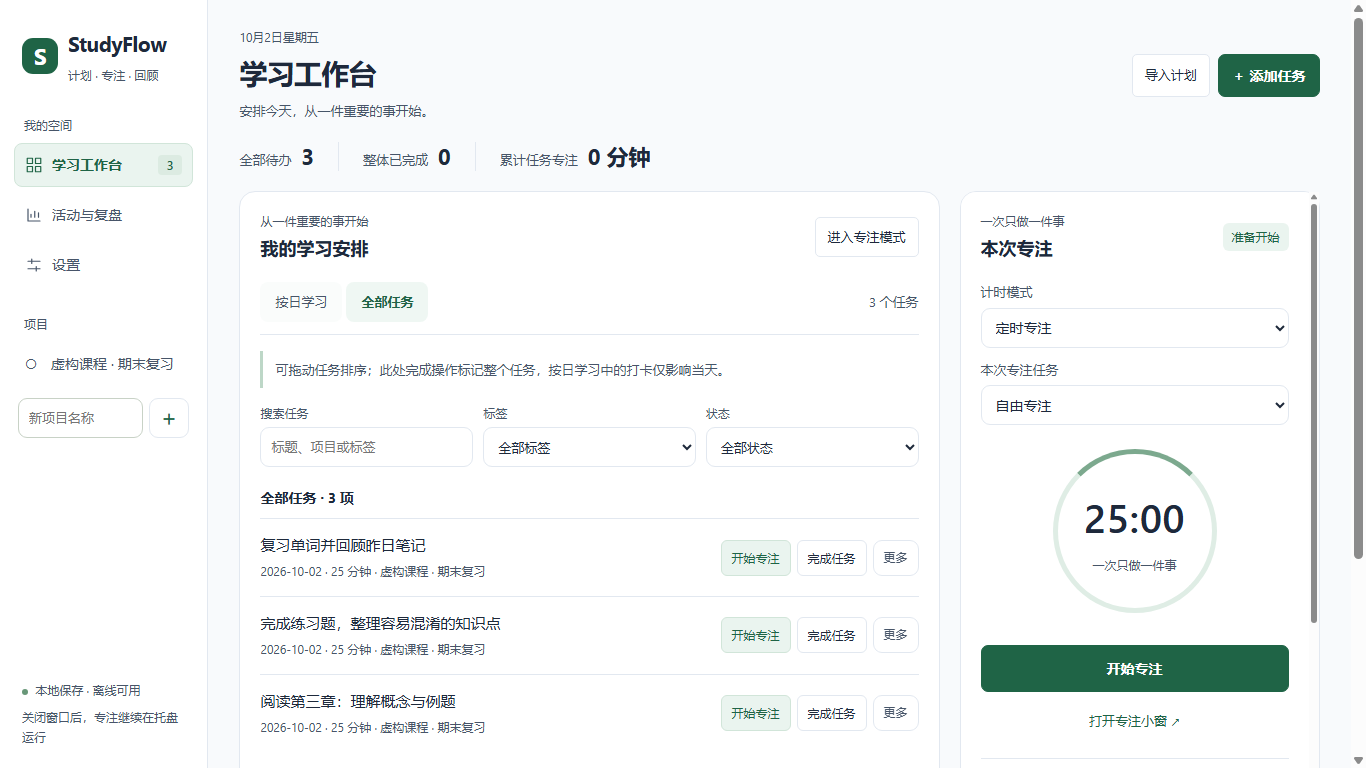
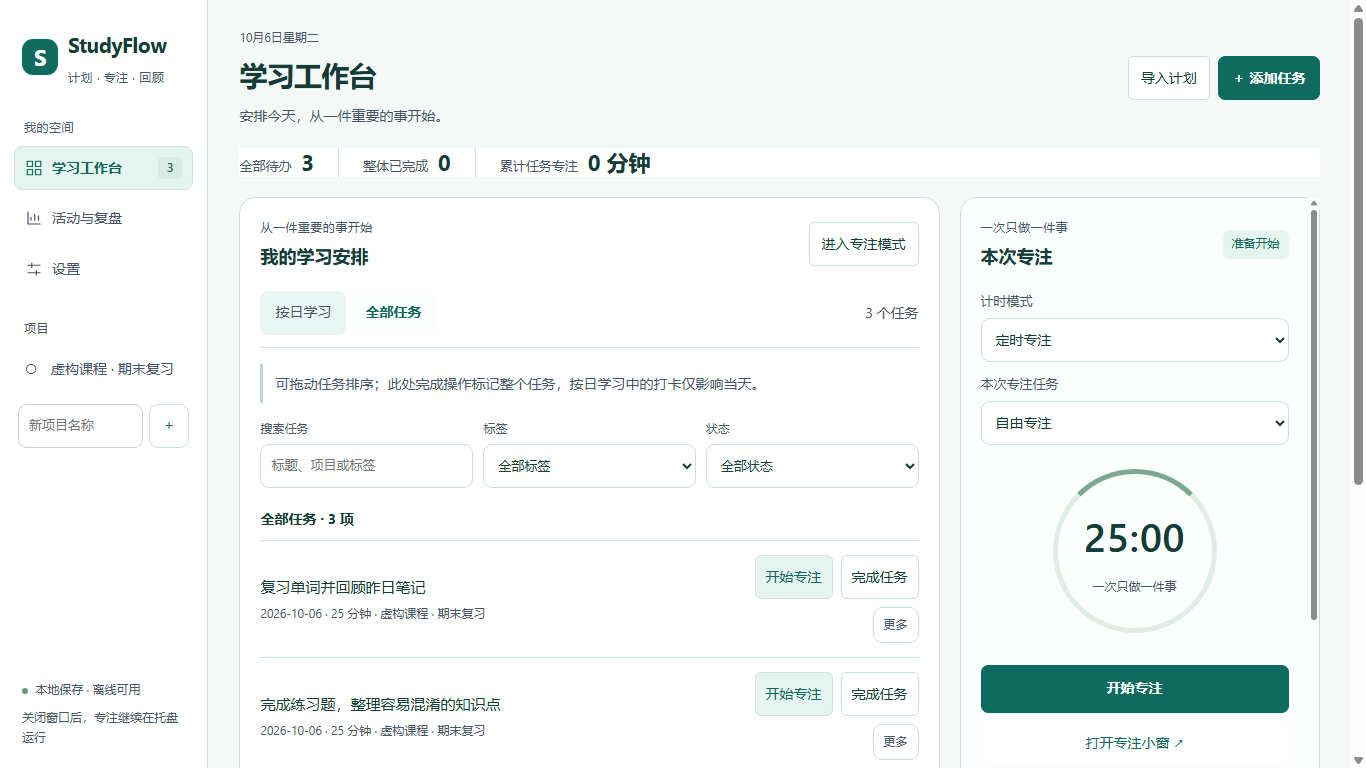
Improve interface readability, responsive layouts and keyboard access

diff --git a/desktop/workspace.css b/desktop/workspace.css
@@ -316,3 +316,78 @@ body.study-view .workspace { grid-template-columns: minmax(0, 1fr) clamp(320px, 
   .settings-save { bottom: 8px; }
 }
 @media (prefers-reduced-motion: reduce) { button { transition: none; } }
+/* Comfortable planning density, including small windows and large text. */
+:root {
+  --canvas: #f4f8f7;
+  --ink: #153c36;
+  --muted: #475569;
+  --brand: #0f6b60;
+  --brand-hover: #0c574e;
+  --brand-soft: #e6f4f0;
+  --border: #cbded8;
+  font-size: 16px;
+  line-height: 1.6;
+}
+.skip-link {
+  position: fixed;
+  left: 16px;
+  top: -100px;
+  z-index: 100;
+  padding: 12px 18px;
+  border-radius: 8px;
+  background: #fff;
+  color: var(--brand);
+  font-weight: 600;
+}
+.skip-link:focus { top: 16px; }
+.brand small, .section-label, .section-kicker { font-size: 12px; letter-spacing: .04em; }
+.nav-item, .project-link { min-height: 44px; font-size: 14px; }
+main > header p, .agenda-summary, .task-list p, .task-meta, .task-notes, .muted,
+.hint, .import-panel .hint, .json-guidance, .agenda-empty, .empty p { font-size: 14px; line-height: 1.7; }
+.task-list strong, .task-heading { font-size: 16px; line-height: 1.5; overflow-wrap: anywhere; }
+.overview small, .calendar-jump, .calendar-weekdays { font-size: 13px; color: var(--muted); }
+.overview { border-color: var(--border); background: #fff; }
+.overview > div { min-width: 0; }
+.calendar-day { min-height: 52px; line-height: 1.4; }
+.calendar-day small { font-size: 12px; }
+.calendar-day.today { outline: 2px solid var(--brand); outline-offset: -2px; }
+.calendar-day.selected { background: var(--brand); }
+.task-row { align-items: flex-start; padding-block: 18px; }
+.task-actions { gap: 8px; }
+.task-actions button, .agenda-tabs button, .secondary, .primary, .calendar-toolbar button,
+.project-form button, .panel-title button, .toolbar button { min-height: 44px; font-size: 14px; }
+.task-actions button { white-space: normal; }
+input:not([type=checkbox]):not([type=range]), select { min-height: 44px; }
+.focus-panel, .tasks-panel, .settings-card, .review-card { border-color: var(--border); }
+.focus-panel { background: #fafffd; }
+.timer-label, .timer-detail, .focus-panel .hint { color: var(--muted); font-size: 13px; }
+.task-entry > summary { min-height: 44px; padding-block: 10px; font-size: 15px; }
+.event-sound-row strong { font-size: 14px; }
+:is(button, a, input, select, textarea, summary):focus-visible { outline: 3px solid var(--brand); outline-offset: 3px; }
+@media (max-width: 850px) {
+  .panel-title, main > header, .calendar-toolbar, .calendar-jump { flex-wrap: wrap; gap: 12px; }
+  .task-actions { flex-direction: row; flex-wrap: wrap; }
+}
+@media (max-width: 640px) {
+  .brand small { font-size: 12px; }
+  .nav-item { min-height: 44px; font-size: 14px; padding: 10px; }
+  .sidebar { min-height: auto; }
+  main { padding: 22px 16px; }
+  .tasks-panel, .focus-panel, .settings-card, .review-card { padding: 16px; }
+  .workspace { grid-template-columns: minmax(0, 1fr); }
+  .focus-panel { display: block; }
+  .overview { flex-wrap: wrap; gap: 16px; }
+  .task-row { flex-wrap: wrap; gap: 12px; }
+  .task-actions { width: 100%; justify-content: flex-end; padding-top: 0; }
+  .task-actions button { flex: 1 1 auto; }
+  .agenda-tabs { flex-wrap: wrap; gap: 8px; }
+  .calendar-grid { gap: 2px; }
+  .calendar-day { min-width: 0; min-height: 48px; padding: 6px 2px; font-size: 14px; }
+  .calendar-day small { font-size: 11px; }
+  input:not([type=checkbox]):not([type=range]), select, textarea { font-size: 16px; }
+  .project-form input { min-width: 0; }
+  .import-panel .hint { font-size: 13px; }
+}
+@media (prefers-reduced-motion: reduce) {
+  *, *::before, *::after { transition: none !important; animation: none !important; scroll-behavior: auto !important; }
+}

diff --git a/desktop/index.html b/desktop/index.html
@@ -6,6 +6,7 @@
   <title>StudyFlow</title><link rel="stylesheet" href="style.css"><link rel="stylesheet" href="workspace.css">
 </head>
 <body>
+  <a class="skip-link" href="#main-content">跳到学习工作台</a>
   <aside class="sidebar">
     <div class="brand"><span class="brand-mark">S</span><div>StudyFlow<small>计划 · 专注 · 回顾</small></div></div>
     <div class="section-label">我的空间</div>
@@ -19,7 +20,7 @@
     <form id="project-form" class="project-form"><label class="sr-only" for="project-name">新项目名称</label><input id="project-name" maxlength="80" placeholder="新项目名称" required><button title="创建项目" aria-label="创建项目">＋</button></form>
     <div class="sidebar-footer"><span class="status-dot"></span> 本地保存 · 离线可用<small>关闭窗口后，专注继续在托盘运行</small></div>
   </aside>
-  <main>
+  <main id="main-content" tabindex="-1">
     <header><div><div class="eyebrow" id="today">把今天过得更专注</div><h1 id="view-title">学习工作台</h1><p class="muted" id="view-description">安排今天，从一件重要的事开始。</p></div><div class="header-actions"><button id="quick-import" class="secondary" type="button">导入计划</button><button id="quick-add" class="primary" type="button">＋ 添加任务</button></div></header>
     <button id="active-session" class="active-session" type="button" hidden aria-label="返回正在进行的专注"></button>
     <div id="error" role="alert" hidden></div>

diff --git a/README.md b/README.md
@@ -113,3 +113,7 @@ Additional Windows checks include `verify:desktop`, `verify:reminder`, `verify:p
 Third-party code retains its original attribution and licenses: the adapted task-time utility is covered by [Super Productivity's MIT license](third-party/super-productivity-LICENSE.txt), and the adapted Windows sampler retains [ActivityWatch's MPL-2.0 license](third-party/activitywatch-LICENSE.txt). See [third-party notices](third-party/README.txt); bundled dependencies keep their applicable licenses.
 
 This repository does not currently declare a root license for StudyFlow's own code. The third-party licenses do not grant a blanket license to the whole project.
+
+## Interface
+
+An offline Windows study planner with larger calendar controls, visible keyboard focus, and a shortcut to the main workspace.

diff --git a/README_ZH.md b/README_ZH.md
@@ -113,3 +113,7 @@ npm run verify:frontend
 第三方代码保留原有署名及许可：改造的任务剩余时间工具遵循 [Super Productivity 的 MIT 许可](third-party/super-productivity-LICENSE.txt)，改造的 Windows 采集器保留 [ActivityWatch 的 MPL-2.0 许可](third-party/activitywatch-LICENSE.txt)。见[第三方声明](third-party/README.txt)，随包依赖保留各自适用的许可。
 
 仓库目前未为 StudyFlow 自有代码声明根目录许可证；第三方许可不能代替整个项目的许可证。
+
+## 界面体验
+
+离线 Windows 学习计划工具，提供更易操作的日历控件、可见的键盘焦点和直达主工作区的快捷入口。
